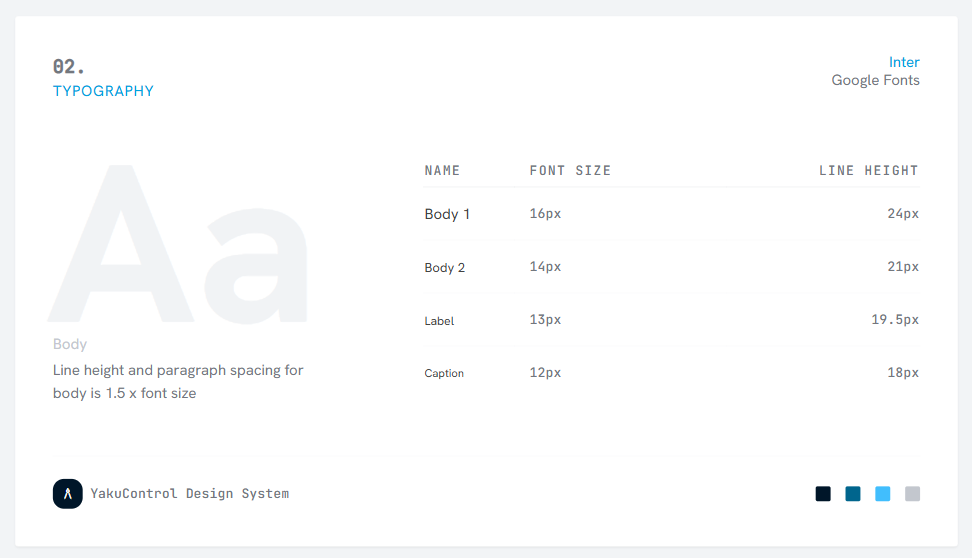
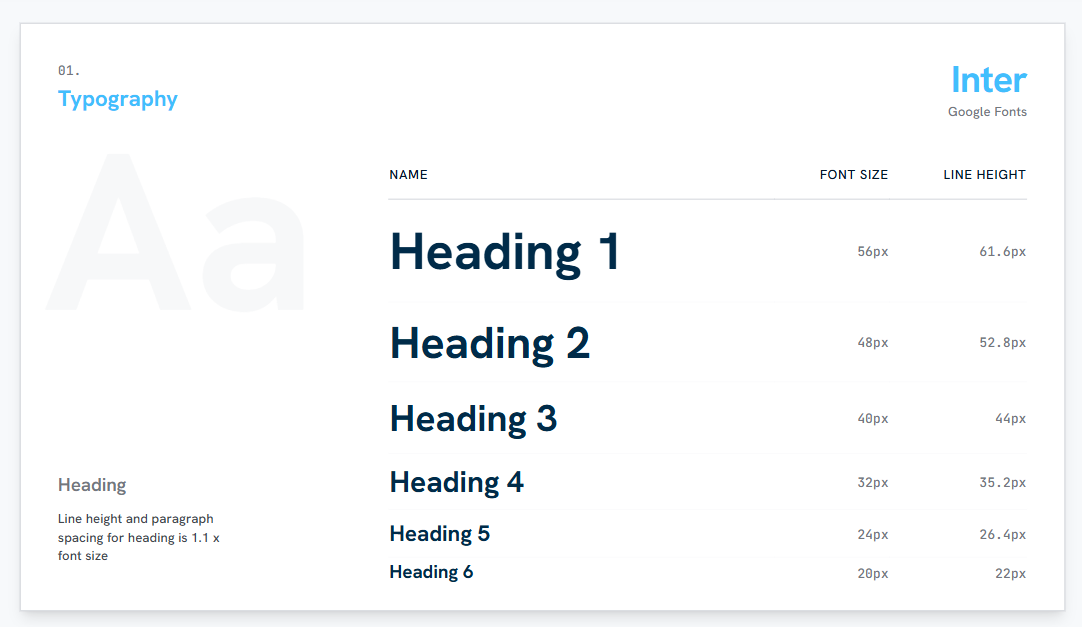
feat: add typography

diff --git a/README.md b/README.md
@@ -1647,6 +1647,7 @@ Los lineamientos de esta sección aseguran coherencia visual e identidad unifica
 
 La guía de estilos establece las bases de diseño para la plataforma YakuControl, asegurando una experiencia de usuario coherente, funcional y visualmente alineada con su propósito. En esta sección se detallan los colores, tipografías, iconografía y demás elementos visuales que conforman la identidad de la marca.
 
+---
 #### Color
 
 Los colores desempeñan un papel fundamental en la percepción que los usuarios tienen de YakuControl. En una plataforma de monitoreo acuícola, el color no solo cumple una función estética, sino también informativa y operativa. Los usuarios deben distinguir de un vistazo entre estados normales, advertencias y alertas críticas. Por ello, la paleta fue seleccionada considerando tanto la psicología del color como la teoría del color.
@@ -1675,7 +1676,50 @@ Los colores fueron seleccionados siguiendo los lineamientos de Material Design d
 | **Éxito** | Green 600 | `#43A047` | Parámetros dentro del rango óptimo y estados saludables de estanques. |
 | **Advertencia** | Amber 700 | `#F9A825` | Parámetros cercanos a límites críticos que requieren atención próxima. |
 | **Error** | Red 600 | `#E53935` | Fallos del sistema y parámetros en nivel crítico que requieren intervención inmediata. |
+
+---
+#### Tipografía
+
+La tipografía de YakuControl equilibra legibilidad técnica con una personalidad moderna y accesible. Se utilizan dos familias tipográficas con roles diferenciados, ambas disponibles en Google Fonts.
  
+**Títulos y Encabezados: Inter**
+ 
+Inter es la fuente principal de YakuControl, utilizada tanto para encabezados como para cuerpo de texto. Diseñada específicamente para interfaces digitales, ofrece alta legibilidad a cualquier tamaño, espaciado optimizado para pantallas y una amplia gama de pesos. Su geometría limpia transmite precisión y modernidad, valores centrales de la plataforma.
+ 
+```
+Inter Bold (700)      → Heading 1, Heading 2
+Inter SemiBold (600)  → Heading 3, Heading 4, Heading 5, Heading 6
+Inter Medium (500)    → Etiquetas, valores de parámetros
+Inter Regular (400)   → Body 1, Body 2, Caption
+Inter Light (300)     → Texto secundario, placeholders
+```
+ 
+La escala tipográfica para encabezados sigue una progresión proporcional con line-height de 1.1x el tamaño de fuente:
+
+![Big Typography Guideline](./assets/disenoui/general-style-guidelines-typo1.png)
+ 
+| Nivel | Tamaño | Line Height |
+|-------|--------|-------------|
+| Heading 1 | 56px | 61.6px |
+| Heading 2 | 48px | 52.8px |
+| Heading 3 | 40px | 44px |
+| Heading 4 | 32px | 35.2px |
+| Heading 5 | 24px | 26.4px |
+| Heading 6 | 20px | 22px |
+ 
+Para el cuerpo de texto, el line-height es de 1.5x el tamaño de fuente:
+
+![Big Typography Guideline](./assets/disenoui/general-style-guidelines-typo2.png)
+ 
+| Nivel | Tamaño | Line Height |
+|-------|--------|-------------|
+| Body 1 | 16px | 24px |
+| Body 2 | 14px | 21px |
+| Label | 13px | 19.5px |
+| Caption | 12px | 18px |
+ 
+---
+
 
 ### 5.1.2. Web, Mobile and IoT Style Guidelines
 
